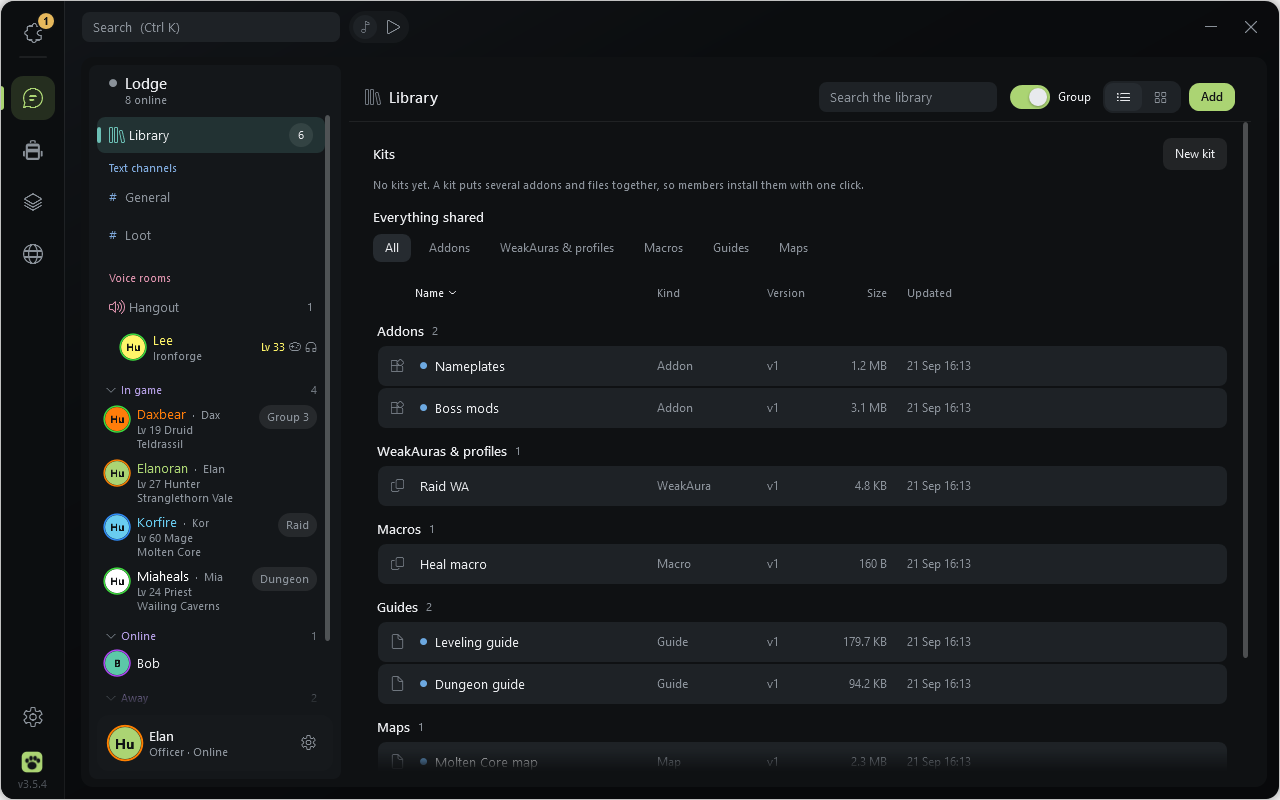
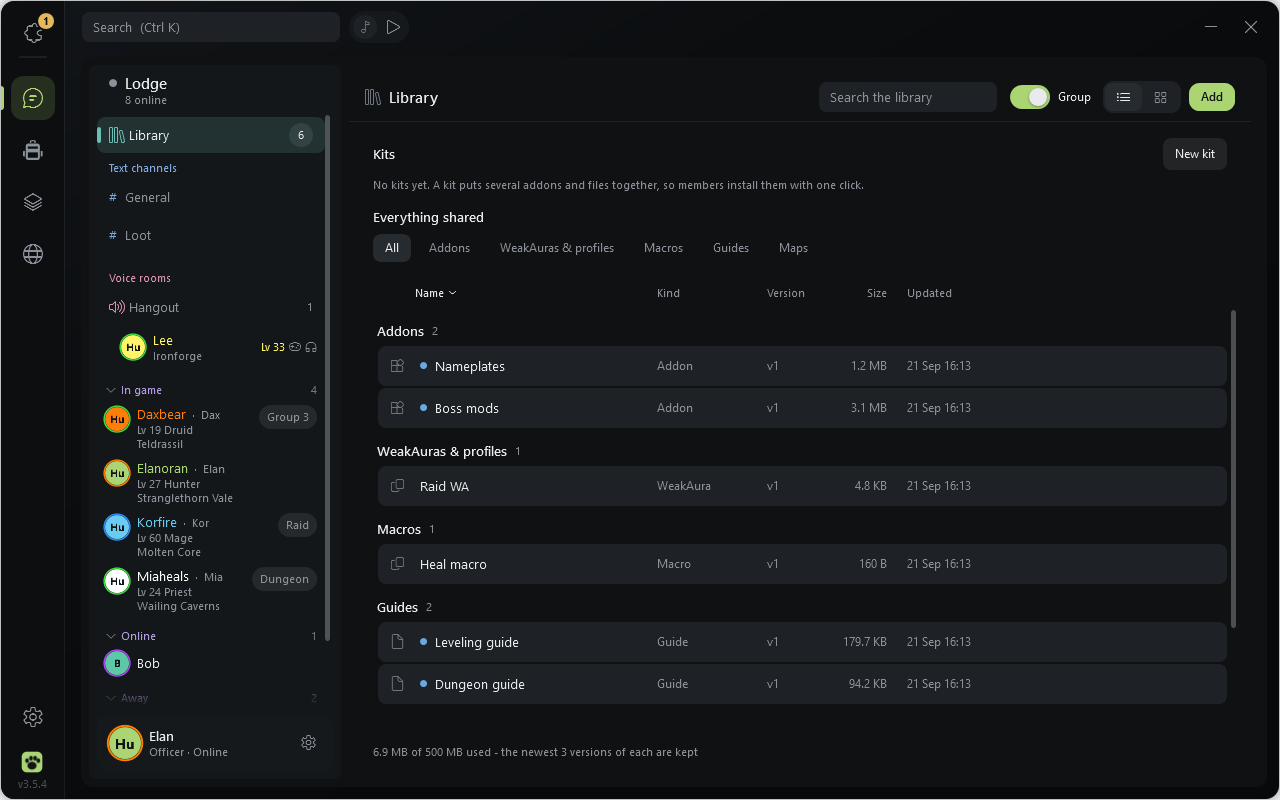
Outpost 3.5.5: a quick Library with many items, a smoother chat open
Found with Tools\selftest.ps1 -Speed:
- Library: the Details rows are a virtualised list with its own scroll (kits, chips and the column heads fixed
  above it); open / sort / group of 300 items 480-510 ms -> 13-17 ms, no freeze. Tiles stay a wrap of cards.
- Chat: a channel opens with its newest 40 rows, the rest of the opening window (120) is built 20 rows at a time
  at Background priority; a jump or search completes it first, a change that moves positions stops it. Longest
  freeze on a 1,500-message channel 406 -> 116 ms.

diff --git a/src/Lodge/FilesView.xaml b/src/Lodge/FilesView.xaml
@@ -203,24 +203,29 @@
           </DockPanel>
         </Border>
 
-        <ScrollViewer Grid.Row="1" VerticalScrollBarVisibility="Auto" app:Motion.EdgeFade="True">
-          <StackPanel Margin="24,16,12,24">
-            <StackPanel x:Name="KitsSection" Visibility="Collapsed">
-              <DockPanel Margin="0,0,12,8">
-                <Button x:Name="NewKitButton" DockPanel.Dock="Right" Style="{StaticResource Button.S}" Content="New kit" Click="NewKit_Click" Visibility="Collapsed"
-                        ToolTip="Put several files together, like a raid night kit" />
-                <TextBlock Text="Kits" Style="{StaticResource Text.RowTitle}" VerticalAlignment="Center" />
-              </DockPanel>
-              <ItemsControl x:Name="KitList" ItemTemplate="{StaticResource KitCard}">
-                <ItemsControl.ItemsPanel><ItemsPanelTemplate><WrapPanel Orientation="Horizontal" /></ItemsPanelTemplate></ItemsControl.ItemsPanel>
-              </ItemsControl>
-              <TextBlock x:Name="KitsEmpty" Text="No kits yet. A kit puts several addons and files together, so members install them with one click." Style="{StaticResource Text.Caption}" TextWrapping="Wrap" Margin="0,0,0,12" />
-              <TextBlock Text="Everything shared" Style="{StaticResource Text.RowTitle}" Margin="0,4,0,8" />
-            </StackPanel>
-            <WrapPanel x:Name="CatChips" Visibility="Collapsed" Margin="0,0,0,12" />
-            <!-- Details: the header (click a column to sort) and the rows -->
-            <StackPanel x:Name="DetailsList" Visibility="Collapsed" Margin="0,0,12,0" SizeChanged="DetailsList_SizeChanged">
-              <Grid x:Name="ColumnHeads" Margin="8,0,8,4">
+        <!-- 3.5.5: kits, chips and the column heads stay on top; the list scrolls on its own and builds only the rows on screen (a Library of
+             300 froze the window half a second on open, sort and Group: Tools\selftest.ps1 -Speed) -->
+        <Grid Grid.Row="1" Margin="24,16,12,0">
+          <Grid.RowDefinitions><RowDefinition Height="Auto" /><RowDefinition Height="*" /><RowDefinition Height="Auto" /></Grid.RowDefinitions>
+          <StackPanel Grid.Row="0">
+              <StackPanel x:Name="KitsSection" Visibility="Collapsed">
+                <DockPanel Margin="0,0,12,8">
+                  <Button x:Name="NewKitButton" DockPanel.Dock="Right" Style="{StaticResource Button.S}" Content="New kit" Click="NewKit_Click" Visibility="Collapsed"
+                          ToolTip="Put several files together, like a raid night kit" />
+                  <TextBlock Text="Kits" Style="{StaticResource Text.RowTitle}" VerticalAlignment="Center" />
+                </DockPanel>
+                <ItemsControl x:Name="KitList" ItemTemplate="{StaticResource KitCard}">
+                  <ItemsControl.ItemsPanel><ItemsPanelTemplate><WrapPanel Orientation="Horizontal" /></ItemsPanelTemplate></ItemsControl.ItemsPanel>
+                </ItemsControl>
+                <TextBlock x:Name="KitsEmpty" Text="No kits yet. A kit puts several addons and files together, so members install them with one click." Style="{StaticResource Text.Caption}" TextWrapping="Wrap" Margin="0,0,0,12" />
+                <TextBlock Text="Everything shared" Style="{StaticResource Text.RowTitle}" Margin="0,4,0,8" />
+              </StackPanel>
+              <WrapPanel x:Name="CatChips" Visibility="Collapsed" Margin="0,0,0,12" />
+          </StackPanel>
+          <!-- Details: the header (click a column to sort) and the rows -->
+          <Grid x:Name="DetailsList" Grid.Row="1" Visibility="Collapsed" SizeChanged="DetailsList_SizeChanged">
+            <Grid.RowDefinitions><RowDefinition Height="Auto" /><RowDefinition Height="*" /></Grid.RowDefinitions>
+            <Grid x:Name="ColumnHeads" Margin="8,0,20,4">
                 <Grid.ColumnDefinitions>
                   <ColumnDefinition Width="*" MinWidth="180" />
                   <ColumnDefinition Width="{Binding Kind, Source={StaticResource Cols}}" /><ColumnDefinition Width="{Binding Version, Source={StaticResource Cols}}" />
@@ -228,22 +233,33 @@
                   <ColumnDefinition Width="{Binding By, Source={StaticResource Cols}}" /><ColumnDefinition Width="{Binding InWow, Source={StaticResource Cols}}" /><ColumnDefinition x:Name="ActionsCol" Width="210" />
                 </Grid.ColumnDefinitions>
               </Grid>
-              <ItemsControl x:Name="SlotRows" ItemTemplate="{StaticResource SlotRow}">
-                <ItemsControl.GroupStyle><GroupStyle HeaderTemplate="{StaticResource GroupHead}" /></ItemsControl.GroupStyle>
-              </ItemsControl>
-            </StackPanel>
-            <ItemsControl x:Name="SlotList" ItemTemplate="{StaticResource SlotCard}">
+            <ItemsControl x:Name="SlotRows" Grid.Row="1" ItemTemplate="{StaticResource SlotRow}" VirtualizingPanel.IsVirtualizing="True" VirtualizingPanel.VirtualizationMode="Recycling"
+                          VirtualizingPanel.IsVirtualizingWhenGrouping="True" VirtualizingPanel.ScrollUnit="Pixel" ScrollViewer.CanContentScroll="True">
+              <ItemsControl.Template>
+                <ControlTemplate TargetType="ItemsControl">
+                  <ScrollViewer Focusable="False" CanContentScroll="True" VerticalScrollBarVisibility="Auto" Padding="0,0,12,16" app:Motion.EdgeFade="True"><ItemsPresenter /></ScrollViewer>
+                </ControlTemplate>
+              </ItemsControl.Template>
+              <ItemsControl.ItemsPanel><ItemsPanelTemplate><VirtualizingStackPanel /></ItemsPanelTemplate></ItemsControl.ItemsPanel>
+              <ItemsControl.GroupStyle><GroupStyle HeaderTemplate="{StaticResource GroupHead}" /></ItemsControl.GroupStyle>
+            </ItemsControl>
+          </Grid>
+          <!-- Tiles: the cards (a wrap of cards cannot be virtualised; its own scroll) -->
+          <ScrollViewer x:Name="TilesScroll" Grid.Row="1" VerticalScrollBarVisibility="Auto" Visibility="Collapsed" app:Motion.EdgeFade="True">
+            <ItemsControl x:Name="SlotList" ItemTemplate="{StaticResource SlotCard}" Margin="0,0,0,16">
               <ItemsControl.ItemsPanel><ItemsPanelTemplate><WrapPanel Orientation="Horizontal" /></ItemsPanelTemplate></ItemsControl.ItemsPanel>
               <ItemsControl.GroupStyle><GroupStyle HeaderTemplate="{StaticResource GroupHead}" /></ItemsControl.GroupStyle>
             </ItemsControl>
-            <StackPanel x:Name="EmptyState" HorizontalAlignment="Center" Margin="0,48,0,0" Visibility="Collapsed">
-              <TextBlock Text="&#xE8A5;" FontFamily="{StaticResource Font.Icons}" FontSize="32" Foreground="{StaticResource Brush.Text.Tertiary}" HorizontalAlignment="Center" />
-              <TextBlock x:Name="EmptyTitle" Text="No files shared yet" Style="{StaticResource Text.Body}" HorizontalAlignment="Center" Margin="0,12,0,0" />
-              <TextBlock x:Name="EmptyHint" Style="{StaticResource Text.Secondary}" HorizontalAlignment="Center" TextAlignment="Center" TextWrapping="Wrap" Margin="0,4,0,0" />
-            </StackPanel>
-            <TextBlock x:Name="UsageText" Style="{StaticResource Text.Caption}" Margin="0,8,0,0" />
-          </StackPanel>
-        </ScrollViewer>
+          </ScrollViewer>
+          <Grid Grid.Row="1">
+              <StackPanel x:Name="EmptyState" HorizontalAlignment="Center" Margin="0,48,0,0" Visibility="Collapsed">
+                <TextBlock Text="&#xE8F1;" FontFamily="{StaticResource Font.Icons}" FontSize="32" Foreground="{StaticResource Brush.Text.Tertiary}" HorizontalAlignment="Center" />
+                <TextBlock x:Name="EmptyTitle" Text="No files shared yet" Style="{StaticResource Text.Body}" HorizontalAlignment="Center" Margin="0,12,0,0" />
+                <TextBlock x:Name="EmptyHint" Style="{StaticResource Text.Secondary}" HorizontalAlignment="Center" TextAlignment="Center" TextWrapping="Wrap" Margin="0,4,0,0" />
+              </StackPanel>
+          </Grid>
+          <TextBlock x:Name="UsageText" Grid.Row="2" Style="{StaticResource Text.Caption}" Margin="0,8,0,12" />
+        </Grid>
       </Grid>
 
       <!-- ===== details: the picture, the description, who sees / updates it, the actions and the versions ===== -->

diff --git a/src/Lodge/LodgeView.ChatList.cs b/src/Lodge/LodgeView.ChatList.cs
@@ -53,16 +53,43 @@ namespace ElansAddonHub.Lodge
                 source.CollectionChanged += SourceChanged;
             }
             int at = focus == null ? -1 : source.IndexOf(focus);
-            if (at < 0 || at >= source.Count - OpenRows) ShowEnd();
+            if (at < 0) ShowEnd(staged: true);       // a plain open at the newest messages: the slow case, built in steps
+            else if (at >= source.Count - OpenRows) ShowEnd();
             else Around(at);
         }
 
-        public void ShowEnd() => Show(Math.Max(0, source.Count - OpenRows), source.Count);
+        // 3.5.5: the newest FirstRows are built at once (more than a screenful: the channel shows right away), the rest of the opening window
+        // Chunk rows at a time between frames (Background priority: after the first frame, before the app is idle) - the same window in the
+        // end, without a 0.4 s freeze when a channel with a long history opens (Tools\selftest.ps1 -Speed)
+        public const int FirstRows = 40;
+        public void ShowEnd(bool staged = false)
+        {
+            int start = Math.Max(0, source.Count - OpenRows), first = staged ? Math.Max(start, source.Count - FirstRows) : start;
+            Show(first, source.Count);
+            if (first > start) { fillTarget = start; FillTop(Version, start); }
+        }
+        int fillTarget = -1;
+        // whatever needs the whole opening window now (a jump, a search hit) gets it at once
+        public void FinishFill()
+        {
+            if (fillTarget >= 0 && Start > fillTarget) GrowTop(Start - fillTarget);
+            fillTarget = -1;
+        }
+        void FillTop(int version, int target)
+        {
+            System.Windows.Threading.Dispatcher.CurrentDispatcher.BeginInvoke(System.Windows.Threading.DispatcherPriority.Background, new Action(() =>
+            {
+                if (Version != version || fillTarget != target || Start <= target || Start > source.Count) return;     // the window moved or changed meanwhile, or is filled
+                GrowTop(Math.Min(Chunk, Start - target));
+                if (Start > target) FillTop(version, target); else fillTarget = -1;
+            }));
+        }
         public int IndexOf(MessageVM m) => source.IndexOf(m);
 
         // makes sure `m` has a row (a jump): the window moves to it when it is outside
         public void Include(MessageVM m)
         {
+            FinishFill();
             int at = source.IndexOf(m);
             if (at < 0 || (at >= Start && at < End)) return;
             Around(at);
@@ -78,7 +105,7 @@ namespace ElansAddonHub.Lodge
 
         void Show(int start, int end)
         {
-            Version++;
+            Version++; fillTarget = -1;
             Start = start;
             Shown.ReplaceAll(source.Skip(start).Take(Math.Max(0, end - start)).ToList());
         }
@@ -86,7 +113,7 @@ namespace ElansAddonHub.Lodge
         // n more rows above the window / below it
         public void GrowTop(int n)
         {
-            n = Math.Min(n, Start);
+            n = Math.Min(n, Math.Min(Start, source.Count));
             for (int i = 1; i <= n; i++) Shown.Insert(0, source[Start - i]);
             Start -= Math.Max(0, n);
         }
@@ -102,6 +129,9 @@ namespace ElansAddonHub.Lodge
         // the channel's own list changed: the window follows (new messages join a live window; an older page joins a window at the start)
         void SourceChanged(object sender, NotifyCollectionChangedEventArgs e)
         {
+            // a change that moves positions while the opening window is still being built: the fill stops first (the window is valid as it is;
+            // scrolling builds more); a message changed in place (Replace: an edit, a reaction) does not move anything
+            if (e.Action != NotifyCollectionChangedAction.Replace) fillTarget = -1;
             switch (e.Action)
             {
                 case NotifyCollectionChangedAction.Add:

diff --git a/src/Lodge/FilesView.xaml.cs b/src/Lodge/FilesView.xaml.cs
@@ -95,7 +95,7 @@ namespace ElansAddonHub.Lodge
         {
             if (S == null) return;
             DetailsList.Visibility = Details ? Visibility.Visible : Visibility.Collapsed;
-            SlotList.Visibility = Details ? Visibility.Collapsed : Visibility.Visible;
+            TilesScroll.Visibility = Details ? Visibility.Collapsed : Visibility.Visible;
             var want = Details ? "details" : "tiles";
             if (S.Settings != null && S.Settings.FilesView != want) { S.Settings.FilesView = want; try { SettingsStore.Save(S.Settings); } catch { } }
         }

diff --git a/src/Lodge/LodgeView.History.cs b/src/Lodge/LodgeView.History.cs
@@ -110,6 +110,7 @@ namespace ElansAddonHub.Lodge
                 if (ch == null) return false;
                 Session.Select(ch);
             }
+            if (Session.Selected?.Id == channel) window.FinishFill();   // 3.5.5: the opening window whole (it is built in steps), as a jump expects
             var list = Session.MessagesOf(channel);
             if (list.All(m => m.Id != id) && Session.HasMoreOlder(channel))
             {

diff --git a/src/CHANGELOG.md b/src/CHANGELOG.md
@@ -3,6 +3,10 @@
 Newest first. `Tools/release.py` (addon repo) reads the sections newer than the previous release for the GitHub release notes.
 Keep one `## x.y.z` section per hub version. This file is also shown in the Outpost (Settings > About > What's new): public text only - no paths, names, addresses or keys.
 
+## 3.5.5
+- **A big Library stays quick.** The list builds only the rows on screen, so opening, sorting and grouping 300 items takes a blink instead of half a second; the kits, filters and column headings stay put while the list scrolls under them, like Explorer.
+- **Opening a busy chat channel is smoother.** The newest messages show at once and the older ones are added right after, so the window no longer stalls on a long history.
+
 ## 3.5.4
 - **Files is now the Library.** It holds more than files - addons, macros, WeakAuras and profiles, talent builds, guides and maps - so the Lodge's page is called Library, and Share a file is Add (a File or Text to copy).
 - **A text knows what it is.** The Library reads a shared text and names it: Macro, WeakAura, Plater profile, ElvUI profile, Talent build, or Import string - in the list, on the card and in the filter chips, and Copy says where to paste it.
